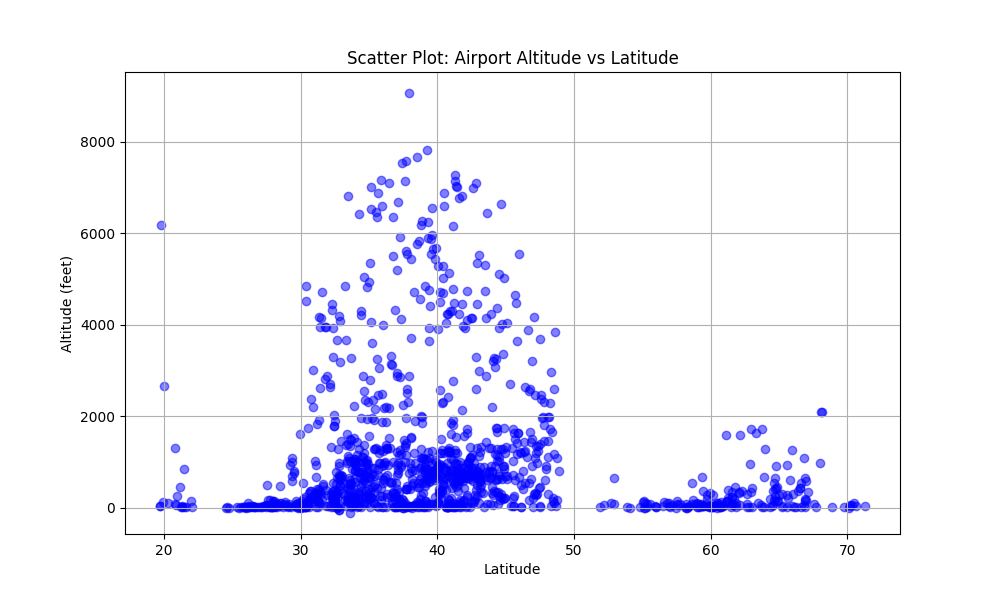
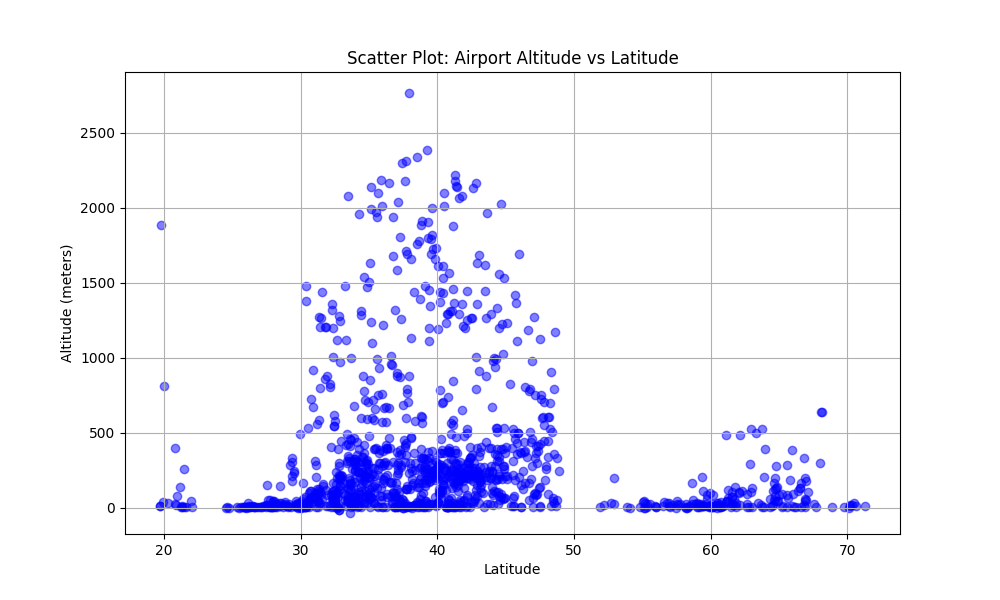
converted altitude to meters

Changed region(s): [[0.062, 0.21, 0.899, 0.24], [0.062, 0.33, 0.124, 0.6], [0.093, 0.69, 0.124, 0.75]]

diff --git a/src/flights.py b/src/flights.py
@@ -35,21 +35,28 @@ df["dst"] = df.apply(lambda row: dst_mapping.get(row["tzone"], row["dst"]) if pd
 # check for missing values after inference
 print("missing values after inference:\n", df.isnull().sum())
 print(df[df["tz"].isnull()])
-print(df[df["tzone"] == "America/Boise"][["tzone", "tz"]].dropna().drop_duplicates())
-df.loc[df["tzone"] == "America/Boise", "tz"] = -7
-print("missing values after final fix:\n", df.isnull().sum())
+print(df[df["tzone"] == "America/Boise"][["tzone", "tz"]].dropna().drop_duplicates()) # check for missing values in America/Boise
+df.loc[df["tzone"] == "America/Boise", "tz"] = -7 # fix missing values in America/Boise
+print("missing values after final fix:\n", df.isnull().sum()) 
+
+# convert altitude to meters
+df["alt_meters"] = df["alt"] * 0.3048
+
 
 # explore relationships within the dataset
+print(df.describe()) # display descriptive statistics
 # scatter plot: altitude vs latitude
 plt.figure(figsize=(10, 6))
-plt.scatter(df["lat"], df["alt"], alpha=0.5, color="blue")
+plt.scatter(df["lat"], df["alt_meters"], alpha=0.5, color="blue")
 
 plt.xlabel("Latitude")
-plt.ylabel("Altitude (feet)")
+plt.ylabel("Altitude (meters)")
 plt.title("Scatter Plot: Airport Altitude vs Latitude")
 plt.grid(True)
 
 plt.show()
+
+
 
 
 
